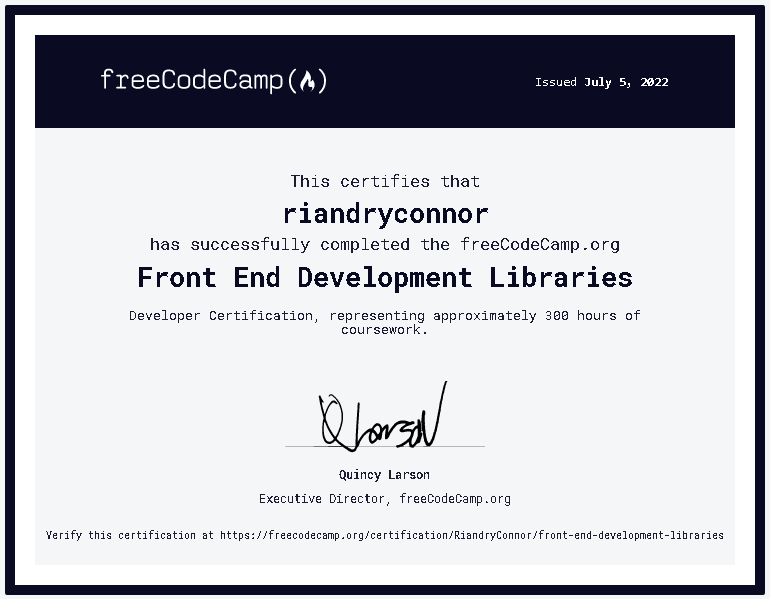
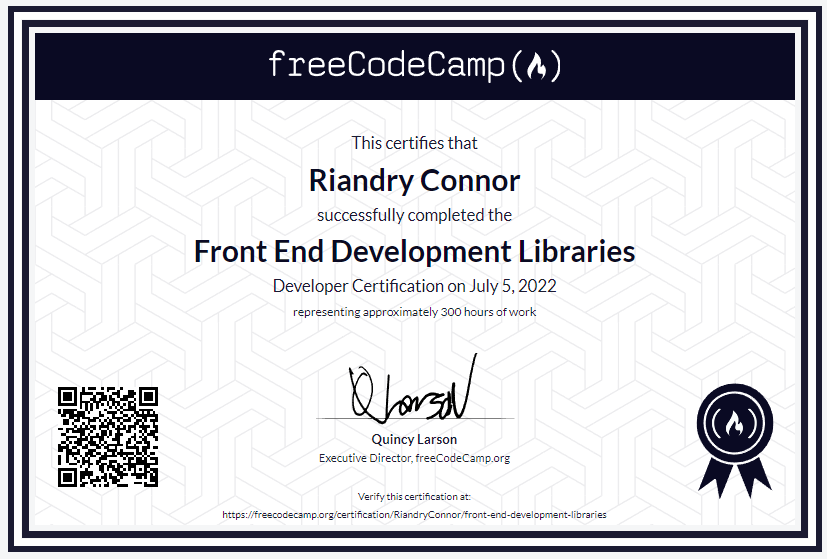
Refactor(Codebase): Add new certification -Re-design the images layout  -Re-write code text

Changed region(s): [[0.0, 0.0, 0.9974, 1.0], [0.1558, 0.2433, 0.8416, 0.5778], [0.3429, 0.6386, 0.6545, 0.8515]]

diff --git a/index.html b/index.html
@@ -16,7 +16,7 @@
           ></div>
           <div class="card__content">
             <div class="card__title">
-              Legacy Responsive Web Design Certification (300 hours)
+              (Legacy) Responsive Web Design Certification (300 hours)
             </div>
             <p class="card__text">
               In this Responsive Web Design Certification, I learned the
@@ -37,7 +37,30 @@
           <div class="card__image card__image--Certification_Javascript"></div>
           <div class="card__content">
             <div class="card__title">
-              JavaScript Algorithms and Data Structures Certification (300
+             (Legacy) JavaScript Algorithms and Data Structures Certification (300
+              hours)
+            </div>
+            <p class="card__text">
+              In here , I learned JavaScript which is used to make webpage,
+              (front-end) interactive. In this JavaScript Algorithm and Data
+              Structures Certification, I learned the fundamentals of JavaScript
+              including variables, arrays, objects, loops, and functions. as
+              well , I also learned two important programming styles or
+              paradigms: Object Oriented Programming (OOP) and Functional
+              Programming (FP).
+            </p>
+            <button class="btn btn--block card__btn" id="certification_6">
+              View in FreeCodeCamp
+            </button>
+          </div>
+        </div>
+      </li>
+      <li class="cards__item">
+        <div class="card">
+          <div class="card__image card__image--Certification_Javascript_beta"></div>
+          <div class="card__content">
+            <div class="card__title">
+             (Beta) JavaScript Algorithms and Data Structures Certification (300
               hours)
             </div>
             <p class="card__text">

diff --git a/certifications.js b/certifications.js
@@ -3,8 +3,8 @@ const $button_1 = document.getElementById("certification_1"),
   $button_2 = document.getElementById("certification_2"),
   $button_3 = document.getElementById("certification_3"),
   $button_4 = document.getElementById("certification_4"),
-  $button_5 = document.getElementById("certification_3");
-
+  $button_5 = document.getElementById("certification_5"),
+  $button_6 = document.getElementById("certification_6");
 // now we adding a event to the button and open it the respectivy page
 
 $button_1.addEventListener("click", () => {
@@ -15,7 +15,7 @@ $button_1.addEventListener("click", () => {
 
 $button_2.addEventListener("click", () => {
   window.open(
-    "https://www.freecodecamp.org/certification/RiandryConnor/javascript-algorithms-and-data-structures"
+    "https://www.freecodecamp.org/certification/RiandryConnor/javascript-algorithms-and-data-structures-v8"
   );
 });
 $button_3.addEventListener("click", () => {
@@ -29,5 +29,9 @@ $button_4.addEventListener("click", () => {
   );
 });
 $button_5.addEventListener("click", () => {
-  window.open("#");
+  window.open("https://www.freecodecamp.org/certification/RiandryConnor/back-end-development-and-apis");
+});
+
+$button_6.addEventListener("click", () => {
+  window.open("https://www.freecodecamp.org/certification/RiandryConnor/javascript-algorithms-and-data-structures");
 });

diff --git a/certifications.css b/certifications.css
@@ -107,20 +107,26 @@ img {
   }
 }
 .card__image--Certification_Backend {
-  background-image: url(./certifications-imgs/white-image.jpg);
+  background-image: url(./certifications-imgs/Backend-Development-and-APIS.png); 
 }
 .card__image--Certification_Javascript {
-  background-image: url(./certifications-imgs/JavaScript\ Algorithms\ and\ Data\ Structures.png);
+  background-image: url(./certifications-imgs/JavaScript-Algorithms-and-Data-Structures\(Legacy\).png);
 }
+
+.card__image--Certification_Javascript_beta {
+  background-image: url(./certifications-imgs/JavaScript-Algorithms-and-Data-Structures.png);
+}
+
 .card__image--Certification_Frontend {
-  background-image: url(./certifications-imgs/FrontEnd-Development-libraries.png);
+  background-image: url(./certifications-imgs/Frontend-Development-Libraries.png);
 }
 .card__image--Certification_Responsive_Web_Design {
-  background-image: url(./certifications-imgs/responsive-design-web.png);
+  background-image: url(./certifications-imgs/Responsive-Web-Design.png);
 }
 .card__image--Certification_DataVisualization {
-  background-image: url(./certifications-imgs/Data-visualization-FCC.png);
+  background-image: url(./certifications-imgs/Data-Visualization.png);
 }
+
 .card__title {
   color: #696969;
   font-size: 1.25rem;
